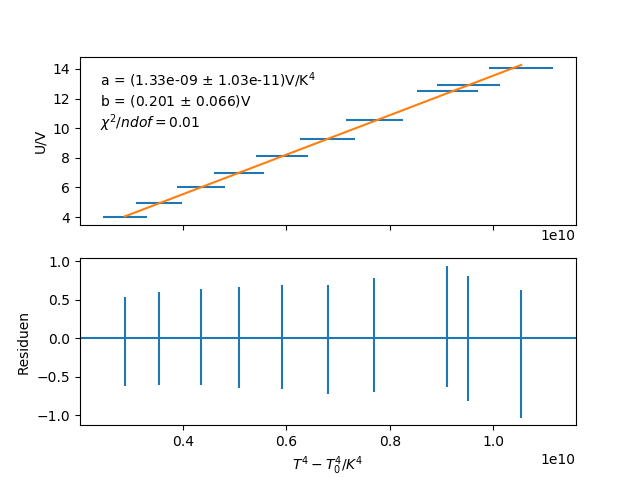
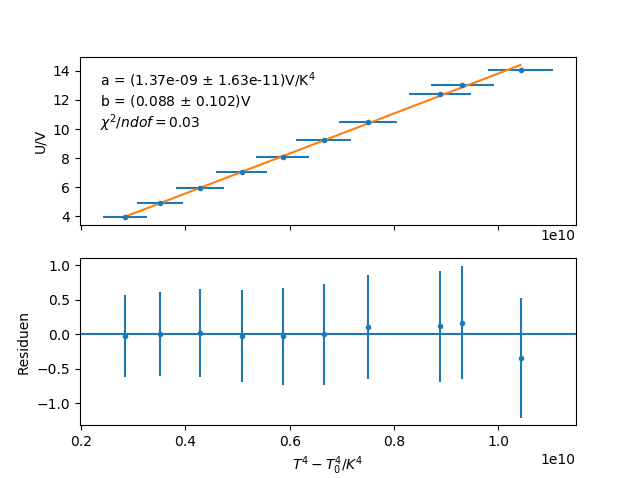
are you happy now?!?!?!?

diff --git a/grundpraktikum2/Atomphysik/Python/A/Epsilon.py b/grundpraktikum2/Atomphysik/Python/A/Epsilon.py
@@ -29,7 +29,7 @@ eps_rel_easy_syst = eps_rel_easy * (ep_schwarz)/(p_schwarz)
 #constants
 kelvin = 273.15
 k = 0.229
-ek = k*0.0069
+ek = 0.0069
 v = 1e-4
 a, b = 1.0107638757247093, -3.3550993800564015
 T0 = (23.7048701757+kelvin)*a+b
@@ -58,15 +58,20 @@ def get_epsilon(string):
     U, eU = data[2], data[3]
     
     eps = (U*v*0.108**2*np.pi)/((k*np.pi**2*(0.035/2)**2*(0.023/2)**2*sigma*(T**4-T0**4)))
-    eps_stat = np.sqrt((eU/U)**2*eps + (eps*eT*4*T**3/(T**4-T0**4))**2)
+    eps_stat = np.sqrt((eU/U)**2*eps + (eps*eT*4*T**3/(T**4))**2)
     eps_syst = np.sqrt((ek/k)**2*eps**2)
     return eps,eps_stat,eps_syst
     
+def get_epsilon_rel():        
+    schwarz = get_epsilon('schwarz')
+    weiss =  get_epsilon('weiss')
+    messing = get_epsilon('messing')
+    spiegel = get_epsilon('spiegel')
+    
+
     
     
 schwarz = get_epsilon('schwarz')
 weiss =  get_epsilon('weiss')
 messing = get_epsilon('messing')
 spiegel = get_epsilon('spiegel')
-#print get_epsilon_hard(p_schwarz, ep_schwarz, b_schwarz, eb_schwarz,'schwarz')
-#,get_epsilon_hard('weiss'),get_epsilon_hard('messing'),get_epsilon_hard('spiegel')

diff --git a/grundpraktikum2/Atomphysik/Python/A/Regression.py b/grundpraktikum2/Atomphysik/Python/A/Regression.py
@@ -39,14 +39,14 @@ def Auswertung(data,i=0,plots = True):
         plt.figure(i)
     
         ax1 = plt.subplot(211)
-        plt.errorbar(T4,U,xerr=eT4,yerr=eU,linestyle='None')
+        plt.errorbar(T4,U,xerr=eT4,yerr=eU,linestyle='None',marker='.')
         plt.plot(x_axis,m*x_axis+q)
         plt.setp(ax1.get_xticklabels(),visible=False)
         plt.ylabel('U/V')
         plt.figtext(0.15,0.73,' a = ({:.2e} $\pm$ {:.2e})V/K$^4$ \n b = ({:.3f} $\pm$ {:.3f})V \n $\chi^2 /ndof = {:.2f}$'.format(m,em,q,eq,chiq_ndof))
         
         ax2 = plt.subplot(212,sharex=ax1)
-        plt.errorbar(T4, (U-m*T4-q) , yerr = np.sqrt(eU**2+m**2*eT4**2), linestyle='None')
+        plt.errorbar(T4, (U-m*T4-q) , yerr = np.sqrt(eU**2+m**2*eT4**2), linestyle='None',marker='.')
         plt.axhline(0)
         plt.xlabel('$T^4-T_0^4 / K^4$')
         plt.ylabel('Residuen')
